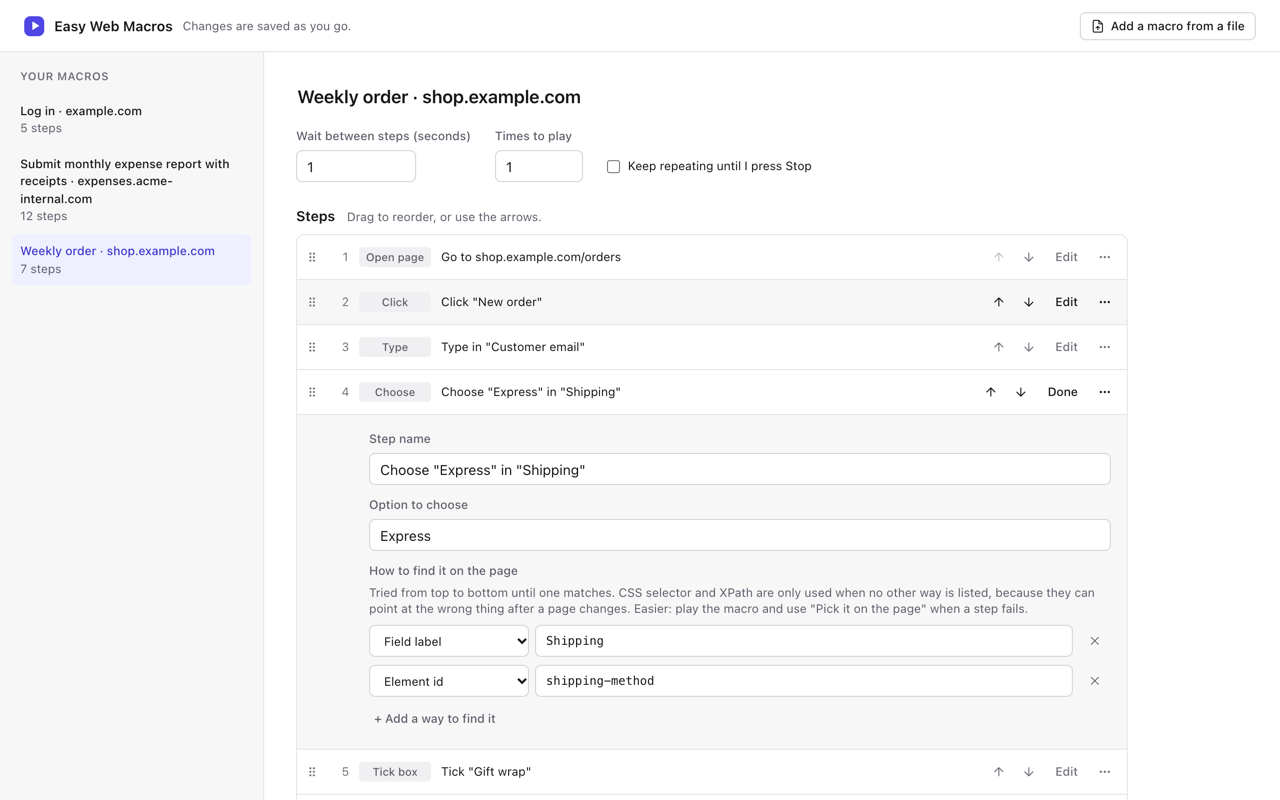
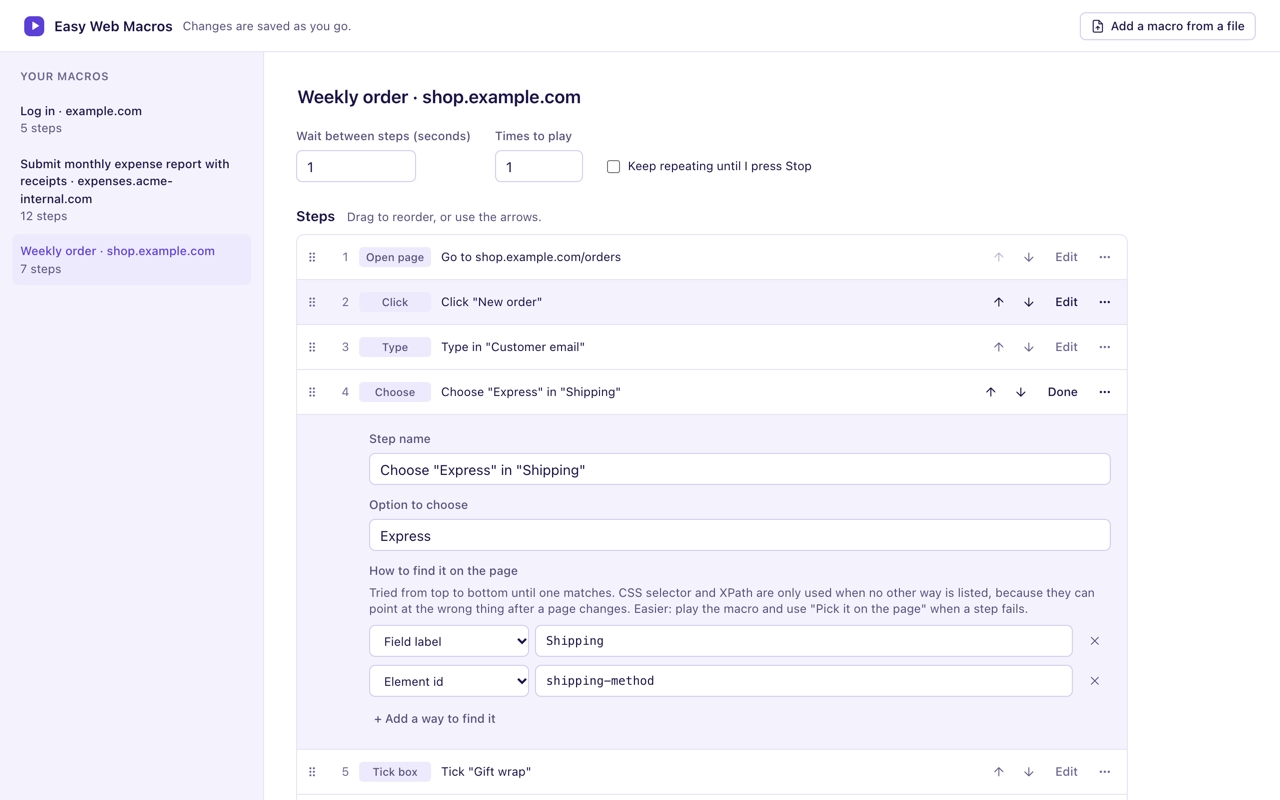
style(ui): brand palette and ghost buttons (PROJ-300)

diff --git a/assets/tailwind.css b/assets/tailwind.css
@@ -1,43 +1,42 @@
 @import "tailwindcss";
 
-/* Clean minimal: neutral greys, one indigo accent, red only for recording and errors. */
+/* Clean minimal in the brand palette: navy text, lavender surfaces, one violet accent; red only for recording and errors, yellow only for small highlights. */
 @theme {
-  --color-page: #f4f4f5;
+  --color-page: #f4f2fd;
   --color-panel: #ffffff;
-  --color-subtle: #f7f7f8;
-  --color-raised: #f0f0f2;
-  --color-line: #e4e4e7;
-  --color-line-strong: #d4d4d8;
-  --color-ink: #18181b;
-  --color-muted: #5f5f6b;
-  --color-faint: #71717a;
-  --color-accent: #4f46e5;
-  --color-accent-hover: #4338ca;
-  --color-accent-soft: #eef0ff;
-  --color-accent-ink: #4338ca;
-  --color-rec: #dc2626;
-  --color-rec-soft: #fef2f2;
-  --color-rec-ink: #b91c1c;
+  --color-subtle: #f4f2fd;
+  --color-raised: #eeeafd;
+  --color-line: #e6e2f6;
+  --color-line-strong: #d3cdee;
+  --color-ink: #1b1446;
+  --color-muted: #56507a;
+  --color-faint: #6b6590;
+  --color-accent: #5b3fd6;
+  --color-accent-soft: #eeeafd;
+  --color-accent-ink: #5b3fd6;
+  --color-rec: #f04438;
+  --color-rec-soft: #fef3f2;
+  --color-rec-ink: #b42318;
+  --color-spark: #f5c518;
 }
 
 @media (prefers-color-scheme: dark) {
   :root {
-    --color-page: #0e0e10;
-    --color-panel: #18181b;
-    --color-subtle: #1f1f23;
-    --color-raised: #27272b;
-    --color-line: #2e2e33;
-    --color-line-strong: #3f3f46;
-    --color-ink: #f4f4f5;
-    --color-muted: #a1a1aa;
-    --color-faint: #8a8a94;
-    --color-accent: #4f46e5;
-    --color-accent-hover: #6366f1;
-    --color-accent-soft: #23234a;
-    --color-accent-ink: #a5b4fc;
-    --color-rec: #ef4444;
-    --color-rec-soft: #2c1517;
-    --color-rec-ink: #fca5a5;
+    --color-page: #0f0c20;
+    --color-panel: #15122b;
+    --color-subtle: #1c1838;
+    --color-raised: #262048;
+    --color-line: #2a2550;
+    --color-line-strong: #3d3766;
+    --color-ink: #f1effb;
+    --color-muted: #aba6c9;
+    --color-faint: #8f89b3;
+    --color-accent: #8b74ff;
+    --color-accent-soft: #2a2257;
+    --color-accent-ink: #a08eff;
+    --color-rec: #f04438;
+    --color-rec-soft: #2e1520;
+    --color-rec-ink: #fda29b;
   }
 }
 
@@ -53,19 +52,21 @@
   .icon { width: 14px; height: 14px; flex: none; fill: none; stroke: currentColor; stroke-width: 1.75; stroke-linecap: round; stroke-linejoin: round; }
   .icon-solid { fill: currentColor; stroke: none; }
 
-  .logo { display: inline-grid; place-items: center; width: 20px; height: 20px; flex: none; border-radius: 6px; background: var(--color-accent); color: #fff; }
+  .logo { display: inline-grid; place-items: center; width: 20px; height: 20px; flex: none; border-radius: 6px; background: #5b3fd6; color: #fff; }
   .logo .icon { width: 11px; height: 11px; }
   .logo-lg { width: 44px; height: 44px; border-radius: 12px; }
   .logo-lg .icon { width: 20px; height: 20px; }
 
-  .btn { display: inline-flex; align-items: center; justify-content: center; gap: 6px; height: 28px; padding: 0 10px; border: 1px solid var(--color-line-strong); border-radius: 6px; background: var(--color-panel); color: var(--color-ink); font-weight: 500; white-space: nowrap; cursor: pointer; }
+  /* Ghost buttons: no fill until hovered; the primary one is tinted violet. */
+  .btn { display: inline-flex; align-items: center; justify-content: center; gap: 6px; height: 28px; padding: 0 10px; border: 1px solid var(--color-line-strong); border-radius: 6px; background: transparent; color: var(--color-ink); font-weight: 500; white-space: nowrap; cursor: pointer; }
   .btn:hover { background: var(--color-raised); }
   .btn:disabled { opacity: .45; cursor: not-allowed; }
-  .btn-primary { border-color: var(--color-accent); background: var(--color-accent); color: #fff; }
-  .btn-primary:hover { border-color: var(--color-accent-hover); background: var(--color-accent-hover); }
-  .btn-ghost { border-color: transparent; background: transparent; color: var(--color-muted); }
+  .btn-primary { border-color: color-mix(in srgb, var(--color-accent) 55%, transparent); color: var(--color-accent-ink); }
+  .btn-primary:hover { background: var(--color-accent-soft); }
+  .btn-ghost { border-color: transparent; color: var(--color-muted); }
   .btn-ghost:hover { color: var(--color-ink); }
   .btn-danger { color: var(--color-rec-ink); }
+  .btn-danger:hover { background: var(--color-rec-soft); color: var(--color-rec-ink); }
   .btn-icon { width: 28px; padding: 0; }
   .btn-lg { height: 36px; padding: 0 14px; }
 

diff --git a/entrypoints/popup/main.tsx b/entrypoints/popup/main.tsx
@@ -316,7 +316,9 @@ function Popup() {
                 <p className="text-xs text-muted">A quick rating on the Chrome Web Store helps other people find it.</p>
                 <div className="flex flex-wrap gap-2">
                   <button className="btn btn-primary" onClick={() => void rate()}>
-                    <Star />
+                    <span className="text-spark">
+                      <Star />
+                    </span>
                     Rate it
                   </button>
                   <button className="btn" onClick={() => setPrompt('closed')}>
